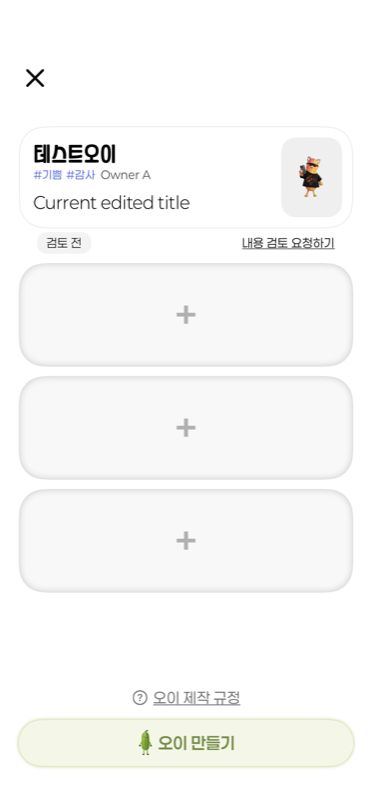
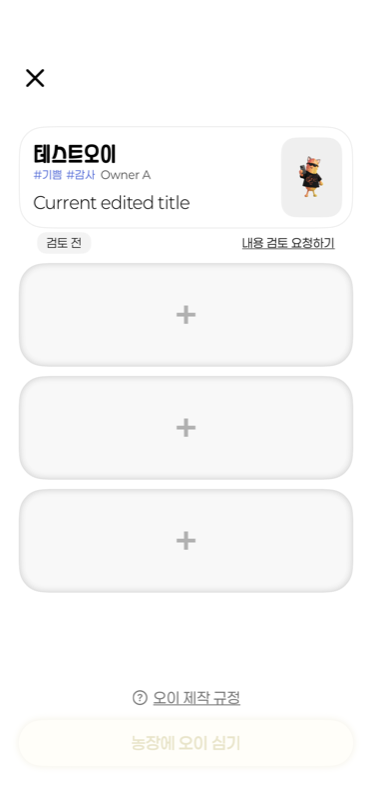
[fix] 이야기 목록 하단에 오이 심기 표시

Changed region(s): [[0.3548, 0.8951, 0.6505, 0.9568], [0.9167, 0.9259, 0.9462, 0.9568], [0.0296, 0.8951, 0.0591, 0.9259]]

diff --git a/apps/ios/OiDonation/Features/Profile/OiStoryListScreen.swift b/apps/ios/OiDonation/Features/Profile/OiStoryListScreen.swift
@@ -29,6 +29,8 @@ struct OiStoryListScreen: View {
         let visibleIDs: () -> [UUID]
         let needsConsent: (UUID) -> Bool
         let message: (UUID) -> String?
+        let openPlantPicker: () -> Void
+        let showsPlantPicker: () -> Bool
     }
 
     var onReviewActionsForTest: ((ReviewTestActions) -> Void)?
@@ -69,8 +71,7 @@ struct OiStoryListScreen: View {
     @State private var showingConsent = false
 
     private var list: some View {
-        let plantAction: (() -> Void)? = remote.autoStoryModeration ? { selectStoryToPlant() } : nil
-        return OiStoryListView(
+        OiStoryListView(
             state: state,
             onRetry: { Task { await remote.refresh(); await loadLocalDrafts() } },
             onSelectStory: selectStory,
@@ -82,8 +83,8 @@ struct OiStoryListScreen: View {
             needsReviewConsent: { reviewConsentID == $0 },
             onGrantReviewConsent: { requestReview($0, consentGranted: true) },
             reviewMessage: reviewMessage,
-            onPlant: plantAction,
-            canPlant: !plantableStories.isEmpty
+            onPlant: selectStoryToPlant,
+            canPlant: remote.autoStoryModeration && !plantableStories.isEmpty
         )
     }
 
@@ -110,7 +111,8 @@ struct OiStoryListScreen: View {
                 onReviewActionsForTest?(.init(request: requestReview,
                     grantConsent: { requestReview($0, consentGranted: true) }, status: reviewState,
                     visibleIDs: { state.items.map(\.id) },
-                    needsConsent: { reviewConsentID == $0 }, message: reviewMessage))
+                    needsConsent: { reviewConsentID == $0 }, message: reviewMessage,
+                    openPlantPicker: selectStoryToPlant, showsPlantPicker: { choosingStoryToPlant }))
             }
             #endif
     }
@@ -392,11 +394,8 @@ struct OiStoryListScreen: View {
     }
 
     private func selectStoryToPlant() {
-        if plantableStories.count == 1, let story = plantableStories.first {
-            Task { await plant(story) }
-        } else if !plantableStories.isEmpty {
-            choosingStoryToPlant = true
-        }
+        guard remote.autoStoryModeration, !plantableStories.isEmpty else { return }
+        choosingStoryToPlant = true
     }
 
     private func plant(_ story: OiLiveStory) async {

diff --git a/apps/ios/OiDonationTests/OiRemoteStoreTests.swift b/apps/ios/OiDonationTests/OiRemoteStoreTests.swift
@@ -3054,6 +3054,10 @@ final class OiRemoteStoreTests: XCTestCase {
         let saved = try await store.localDraft(id: record.id, owner: owner)
         XCTAssertTrue(saved?.matchesReviewedContent == true)
         XCTAssertTrue(saved?.agreedConsentClauseIDs?.contains("aiReviewV1") == true)
+        buttons.openPlantPicker()
+        XCTAssertTrue(buttons.showsPlantPicker())
+        XCTAssertEqual(store.ownStories.first?.status, "draft")
+        XCTAssertTrue(store.stories.isEmpty)
     }
 
     @MainActor func testStoryListShowsUpdatedLayoutWithLegacyReview() async throws {

diff --git a/project.md b/project.md
@@ -82,7 +82,7 @@
 
 **2026-11-08 확정(#239):** 4단계 배치 미리보기에서 위치·높이·방향을 정하고 **내 지도에 배치하기**를 누르면 꾸민 3D 오이가 이 기기의 계정별 지도에 바로 표시된다. 내 지도 배치는 공개 약관 없이 저장할 수 있다. 이야기·사진 없이 배치하던 부분은 2026-11-11(#278)에 변경했다. 서버의 작성 일시 중지는 서버 저장과 공개 요청에 적용된다.
 
-**2026-11-16 확정(#388):** 공개 등록에서 기존 운영자 사전 승인을 AI 자동검수로 전환한다. 동의하고 등록하면 제목·본문·오이 이름, 게시용 사진, 오이 외형 및 의상 이미지, 카드 이미지와 표지를 검수한다. 의미를 파악할 수 없는 초성·반복 문자 글과 타인을 겨냥하지 않은 욕설도 거부한다. 이야기 목록에서 내용 검토 요청을 누르면 해당 카드가 검토 전에서 검토중으로 바뀐다. 결과에 따라 같은 카드가 게시 가능 또는 수정 필요로 바뀌며 거부 사유는 카드 아래에 표시한다. OpenAI 전송에 동의하지 않은 초안은 해당 카드에서 동의한 뒤 검수를 요청할 수 있다. 작성자가 농장에 오이 심기를 선택하면 해당 버전을 공개한다. 코인은 사용하지 않는다. 이야기 목록의 ver.4 레이아웃과 제작 규정 팝업은 서버 전환 전에도 표시한다. 서버 전환 전 목록에서 검토를 요청하면 기존 운영자 검토로 접수한다. 검토 대기 중인 오이는 기존 칸에 검토중으로 표시하고 결과가 나올 때까지 이야기 칸을 차지한다. 하단에는 오이 만들기를 제공한다. 거부된 글은 수정 필요 상태에서 사유를 확인하고 다시 작성할 수 있다. 기존 수동 검토 대기 글은 작성자가 초안으로 돌려 다시 등록할 수 있다. 공개 후 신고·작성자 제한·게시물 비공개 경로는 유지한다. 운영 전환 전 배포 버전에서는 종전 사전 검토가 적용된다.
+**2026-11-16 확정(#388):** 공개 등록에서 기존 운영자 사전 승인을 AI 자동검수로 전환한다. 동의하고 등록하면 제목·본문·오이 이름, 게시용 사진, 오이 외형 및 의상 이미지, 카드 이미지와 표지를 검수한다. 의미를 파악할 수 없는 초성·반복 문자 글과 타인을 겨냥하지 않은 욕설도 거부한다. 이야기 목록에서 내용 검토 요청을 누르면 해당 카드가 검토 전에서 검토중으로 바뀐다. 결과에 따라 같은 카드가 게시 가능 또는 수정 필요로 바뀌며 거부 사유는 카드 아래에 표시한다. OpenAI 전송에 동의하지 않은 초안은 해당 카드에서 동의한 뒤 검수를 요청할 수 있다. 작성자가 농장에 오이 심기를 선택하면 해당 버전을 공개한다. 코인은 사용하지 않는다. 이야기 목록의 ver.4 레이아웃과 제작 규정 팝업은 서버 전환 전에도 표시한다. 서버 전환 전 목록에서 검토를 요청하면 기존 운영자 검토로 접수한다. 검토 대기 중인 오이는 기존 칸에 검토중으로 표시하고 결과가 나올 때까지 이야기 칸을 차지한다. 목록 하단에는 농장에 오이 심기를 표시한다. 서버의 심기 기능을 사용할 수 있고 게시 가능한 오이가 있을 때 심을 오이를 선택할 수 있다. 새 오이는 목록의 빈 칸에서 만든다. 거부된 글은 수정 필요 상태에서 사유를 확인하고 다시 작성할 수 있다. 기존 수동 검토 대기 글은 작성자가 초안으로 돌려 다시 등록할 수 있다. 공개 후 신고·작성자 제한·게시물 비공개 경로는 유지한다. 운영 전환 전 배포 버전에서는 종전 사전 검토가 적용된다.
 
 **2026-11-08 후속 확정(#240):** 공개 검토에 꾸민 오이의 옷·색상과 의상에 적용된 사진을 포함한다. 승인 후에는 제출 당시의 외형이 캠퍼스 지도와 현장 AR에 표시된다. 의상 사진 원본과 사용하지 않은 의상 디자인은 기기에 보관한다.
 
